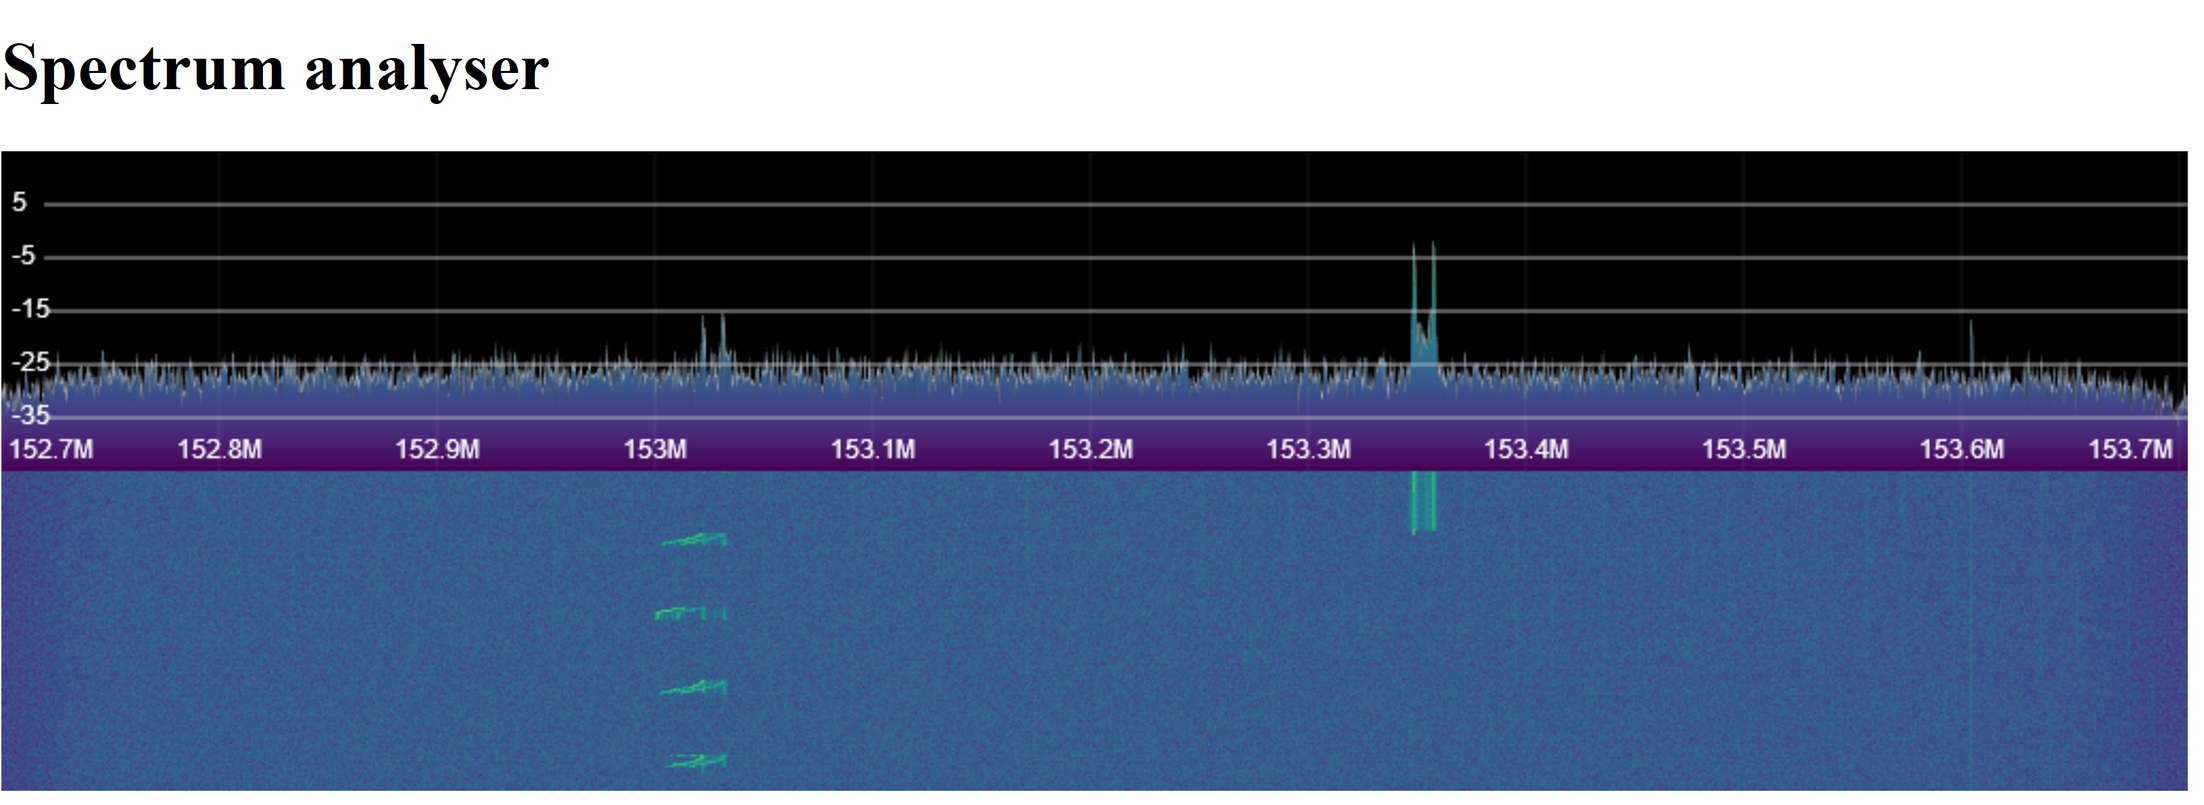
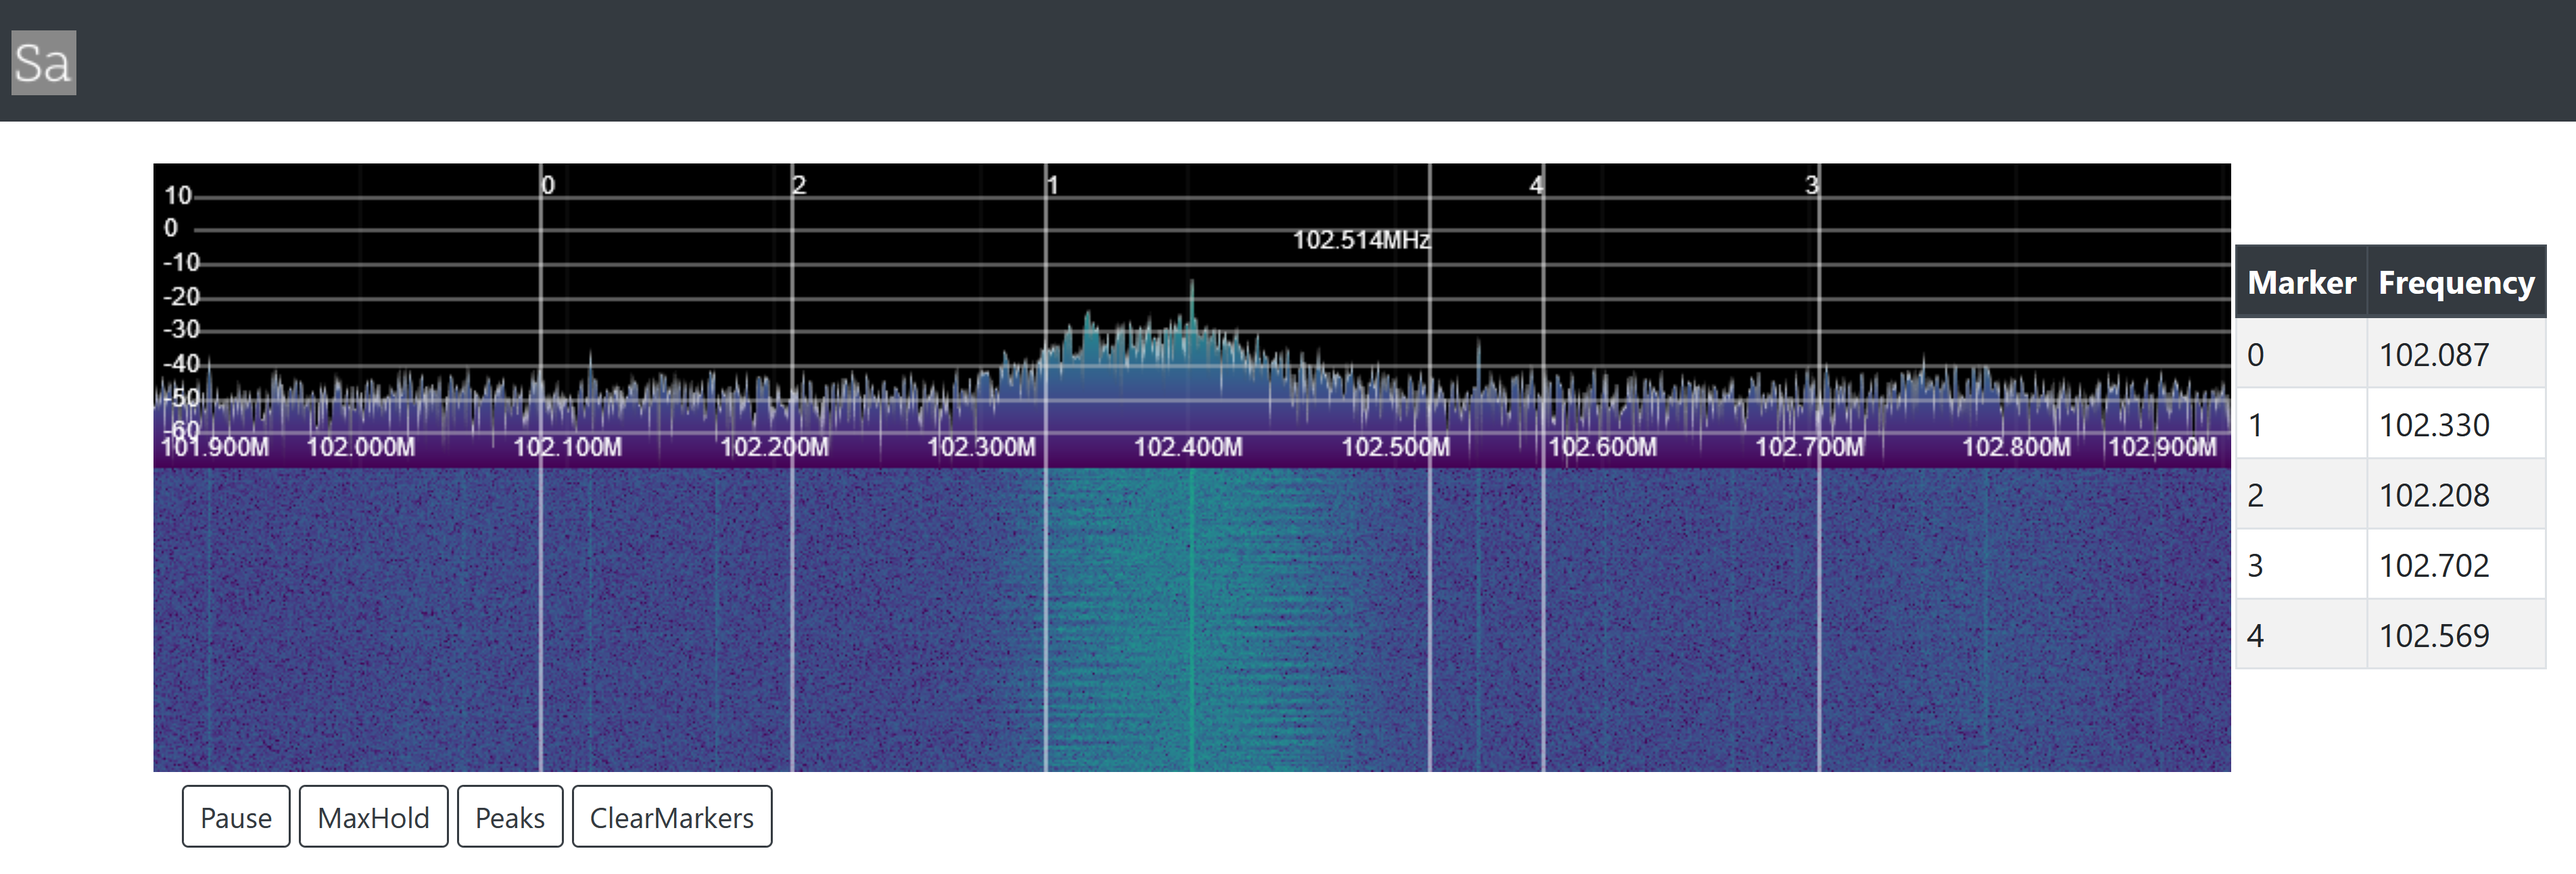
Markers and marker table

diff --git a/src/webUI/webroot/spectrum.js b/src/webUI/webroot/spectrum.js
@@ -91,7 +91,7 @@ Spectrum.prototype.drawSpectrum = function(bins) {
     }
 
     // Max hold
-    if (this.maxHold) {
+    if (this.maxHold && !this.pause) {
         if (!this.binsMax || this.binsMax.length != bins.length) {
             this.binsMax = Array.from(bins);
         } else {
@@ -130,6 +130,32 @@ Spectrum.prototype.drawSpectrum = function(bins) {
 
     // Copy axes from offscreen canvas
     this.ctx.drawImage(this.ctx_axes.canvas, 0, 0);
+}
+
+Spectrum.prototype.updateMarkers = function() {
+    this.drawMarkerLines();
+    this.writeMarkers();
+}
+
+Spectrum.prototype.drawMarkerLines = function(){
+    // markers
+    if (this.liveMarker_on){
+        let height = this.ctx.canvas.height;
+        this.ctx.beginPath();
+        this.ctx.moveTo(this.liveMarker_x, 0);
+        this.ctx.lineTo(this.liveMarker_x, height);
+        this.ctx.strokeStyle = "#ffffff";
+        this.ctx.stroke();
+    }
+    for (let item of this.markers) {
+        let xpos = item.xpos;
+        let height = this.ctx.canvas.height;
+        this.ctx.beginPath();
+        this.ctx.moveTo(xpos, 0);
+        this.ctx.lineTo(xpos, height);
+        this.ctx.strokeStyle = "#ffffff";
+        this.ctx.stroke();
+    }
 }
 
 Spectrum.prototype.updateAxes = function() {
@@ -201,6 +227,10 @@ Spectrum.prototype.updateAxes = function() {
 
 Spectrum.prototype.addData = function(magnitudes, peaks) {
     if (!this.paused) {
+        // remember the data so we can pause and still use markers
+        this.mags = magnitudes;
+        this.peaks = peaks;
+
         // magnitudes are from a single fft, peaks are from all the fft magnitudes since the last update
         // both magnitudes and peaks are same length
         if (magnitudes.length != this.wf_size) {
@@ -217,7 +247,7 @@ Spectrum.prototype.addData = function(magnitudes, peaks) {
             this.drawSpectrum(peaks);
             this.addWaterfallRow(peaks);
         }
-        this.writeMarker();
+        this.updateMarkers();
         this.resize();
     }
 }
@@ -417,25 +447,70 @@ Spectrum.prototype.onKeypress = function(e) {
     }
 }
 
-Spectrum.prototype.setMarker = function(message, x, y) {
-    this.marker=message;
-    this.marker_x = x;
-    this.marker_y = y;
+Spectrum.prototype.setLiveMarker = function(message, x, y) {
+    this.liveMarker_on=true;
+    this.liveMarker_text=message;
+    this.liveMarker_x = x;
+    this.liveMarker_y = y;
 }
 
-Spectrum.prototype.writeMarker = function() {
-    if (self.message != "") {
-        var context = this.canvas.getContext('2d');
-        context.font = '12px sans-serif';
-        context.fillStyle = 'white';
-        context.fillText(this.marker, this.marker_x, this.marker_y);
+Spectrum.prototype.addMarkerMHz = function(frequencyMHz, x_pos) {
+    let marker = {};
+    marker['xpos'] = x_pos;
+    marker['freqMHz'] = frequencyMHz;
+    if (!this.markers.has(marker)) {
+        this.markers.add(marker);
+
+        // add to table of markers
+        let new_row="<tr><td>"+(this.markers.size-1)+"</td><td>"+frequencyMHz+"</td></tr>"
+        $('#marker_table').append(new_row);
+    }
+}
+
+Spectrum.prototype.clearMarkers = function() {
+    // clear the table
+    //  $(this).parents("tr").remove();
+    let num_rows=this.markers.size;
+    for (let i=num_rows; i>0; i--) {
+        $("#marker_table tr:eq("+i+")").remove(); //to delete row 'i', delrowId should be i+1
+    }
+    this.markers.clear();
+    this.liveMarker_on = false;
+}
+
+Spectrum.prototype.liveMarkerOff = function() {
+    this.liveMarker_on=false;
+}
+
+Spectrum.prototype.writeMarkers = function() {
+    var context = this.canvas.getContext('2d');
+    context.font = '12px sans-serif';
+    context.fillStyle = 'white';
+    context.textAlign = "left";
+    if (this.liveMarker_text != "" && this.liveMarker_on) {
+        // are we past half way
+        if (this.liveMarker_x > (this.canvas.clientWidth/2)) {
+            context.textAlign = "right";
+        }
+        context.fillText(this.liveMarker_text, this.liveMarker_x, this.liveMarker_y);
+    }
+    let marker_num=0;
+    for (let item of this.markers) {
+        let xpos = item.xpos;
+        context.textAlign = "left";
+        // are we past half way
+        if (xpos > (this.canvas.clientWidth/2)) {
+            context.textAlign = "right";
+        }
+        context.fillText(marker_num, xpos, 15);
+        marker_num+=1;
     }
 }
 
 Spectrum.prototype.getMouseValue = function(evt) {
     // TODO: handle paused, currently it fills the canvas with text, need some sort of overlay?
     if (!this.paused){
-        var rect = this.canvas.getBoundingClientRect();
+        let rect = this.canvas.getBoundingClientRect();
         let x_pos = evt.clientX - rect.left;
         let per_hz = this.spanHz / (rect.right - rect.left);
         let freq_value = (this.centerHz - (this.spanHz / 2)) + (x_pos * per_hz);
@@ -462,8 +537,15 @@ function Spectrum(id, options) {
     this.averaging = (options && options.averaging) ? options.averaging : 0;
     this.maxHold = (options && options.maxHold) ? options.maxHold : false;
 
-    // live magnitude spectrum or default of peaks over all spectrums seen since last spectrum
+    // flag live magnitude spectrum or default of peaks over all spectrums seen since last spectrum
     this.live_magnitudes = (options && options.live_magnitudes) ? options.live_magnitudes : false;
+
+    // markers
+    this.markers = new Set();
+    this.message = "";
+    this.liveMarker_on = false;
+    this.liveMarker_x = 0;
+    this.liveMarker_y = 0;
 
     // Setup state
     this.paused = false;

diff --git a/src/webUI/webroot/main.js b/src/webUI/webroot/main.js
@@ -93,41 +93,50 @@ function check_for_support(){
 function main() {
     let not_supported=check_for_support();
     if (not_supported != ""){
-        alert("Error: Required HTML support not found"+not_supported);
+        alert("Error: Sorry - required HTML support not found"+not_supported);
         return;
     }
 
-    // Create spectrum object on canvas with ID "waterfall"
+    // Create spectrum object on canvas with ID "spectrumanalyser"
     var spectrum = new Spectrum(
         "spectrumanalyser", {
             spectrumPercent: 50
     });
 
-    // Connect to websocket
-    connectWebSocket(spectrum);
-
-    // Bind keypress handler, lots of key options for controlling the spectrum
+    // keypresses
     window.addEventListener("keydown", function (e) {
         spectrum.onKeypress(e);
     });
 
-    // mlouse hover over for displaying the fre quency
+    // mouse events
     var canvas = document.getElementById('spectrumanalyser');
     canvas.addEventListener('mousemove', function(evt) {
-        var mouse_ptr = spectrum.getMouseValue(evt);
+        let mouse_ptr = spectrum.getMouseValue(evt);
         if (mouse_ptr){
-            spectrum.setMarker((mouse_ptr.freq / 1e6).toFixed(3)+"MHz", mouse_ptr.x, mouse_ptr.y);
+            spectrum.setLiveMarker((mouse_ptr.freq / 1e6).toFixed(3)+"MHz", mouse_ptr.x, mouse_ptr.y);
+        }
+    }, false);
+    canvas.addEventListener('click', function(evt) {
+        let mouse_ptr = spectrum.getMouseValue(evt);
+        if (mouse_ptr){
+            spectrum.addMarkerMHz((mouse_ptr.freq / 1e6).toFixed(3), mouse_ptr.x);
         }
     }, false);
 
-    // buttons
+    // bootstrap buttons
     var our_buttons = '<button type="button" id="pauseBut" data-toggle="button" class="btn btn-outline-dark btn-sm mr-1">Pause</button>';
     our_buttons += '<button type="button" id="maxHoldBut" data-toggle="button" class="btn btn-outline-dark btn-sm mr-1">MaxHold</button>';
     our_buttons += '<button type="button" id="peakBut" data-toggle="button" class="btn btn-outline-dark btn-sm mr-1">Peaks</button>';
+    our_buttons += '<button type="button" id="clearMarkers" class="btn btn-outline-dark btn-sm mr-1">ClearMarkers</button>';
     $('#buttons').append(our_buttons);
+    // bootstrap events
     $('#pauseBut').click(function() {spectrum.togglePaused();});
     $('#maxHoldBut').click(function() {spectrum.toggleMaxHold();});
     $('#peakBut').click(function() {spectrum.toggleLive();});
+    $('#clearMarkers').click(function() {spectrum.clearMarkers();});
+
+    // Connect to websocket
+    connectWebSocket(spectrum);
 }
 
 window.onload = main;

diff --git a/src/webUI/webroot/index.html b/src/webUI/webroot/index.html
@@ -51,8 +51,27 @@
 </nav>
 
 <main role="main" class="container">
-    <canvas id="spectrumanalyser" height="300" width="1024"></canvas>
-
+    <div>
+        <table>
+            <tbody>
+                <tr>
+                    <td><canvas id="spectrumanalyser" height="300" width="1024"></canvas></td>
+                    <td>
+                        <table id="marker_table" class="table table-striped table-bordered table-sm">
+                            <thead class="thead-dark">
+                            <tr>
+                              <th scope="col">Marker</th>
+                              <th scope="col">Frequency</th>
+                            </tr>
+                          </thead>
+                          <tbody>
+                          </tbody>
+                        </table>
+                    </td>
+                </tr>
+            </tbody>
+        </table>
+    </div>
     <div class="container">
         <div id="buttons"/>
     </div>
